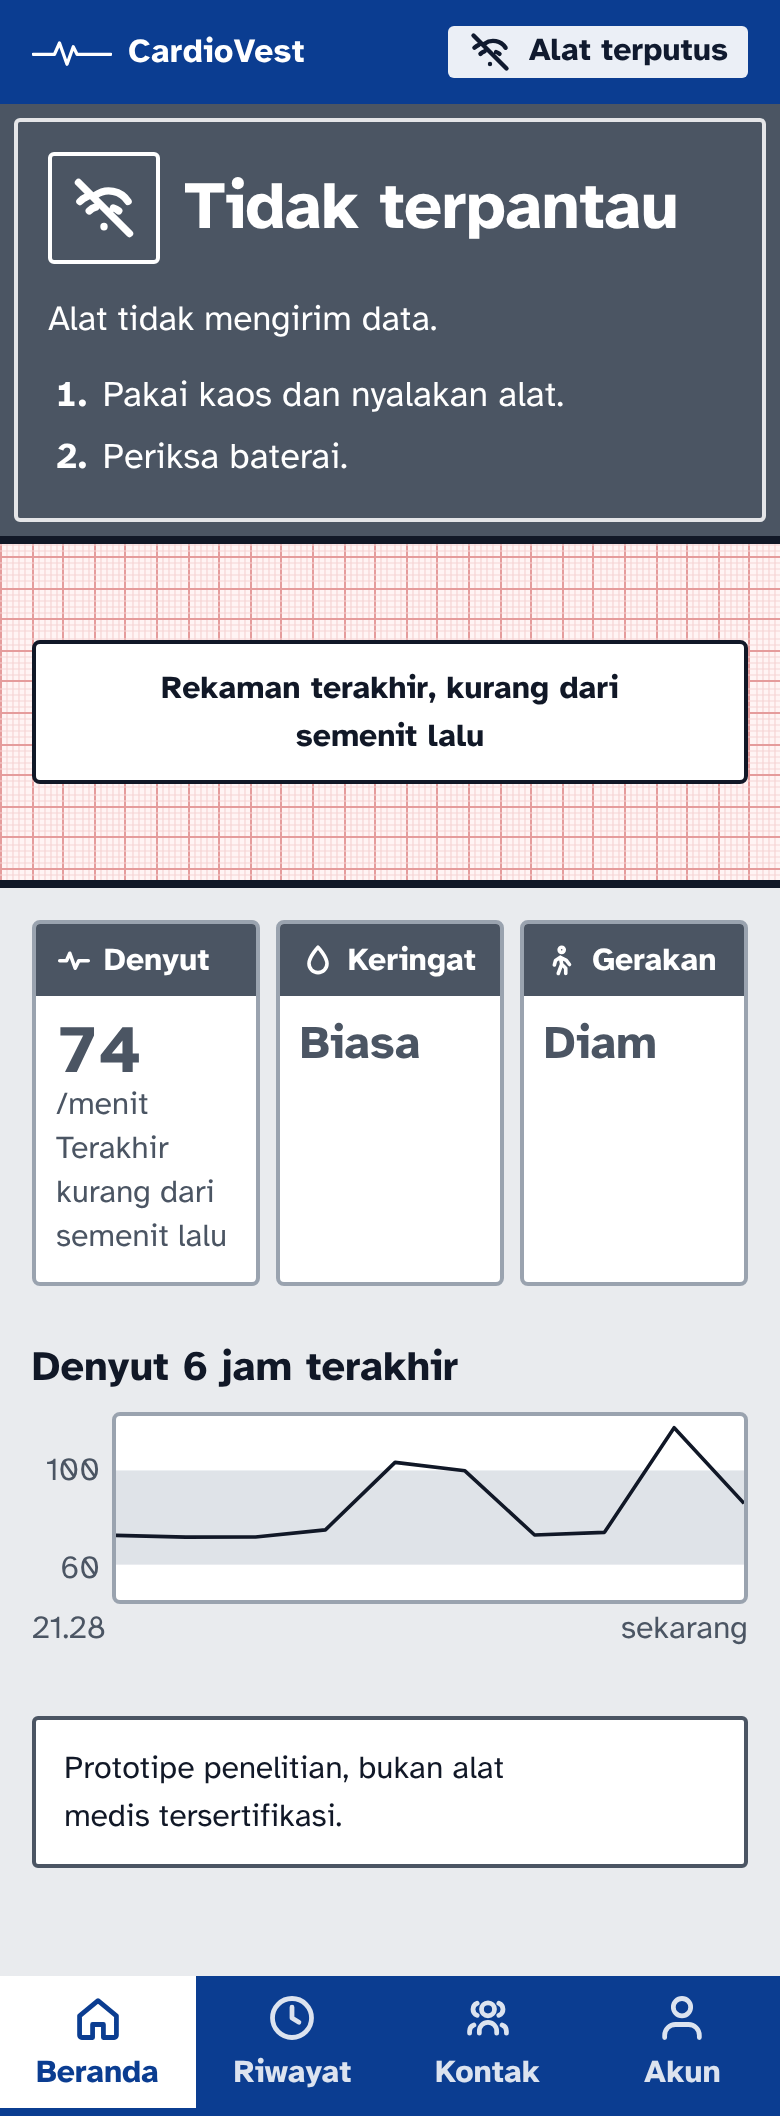
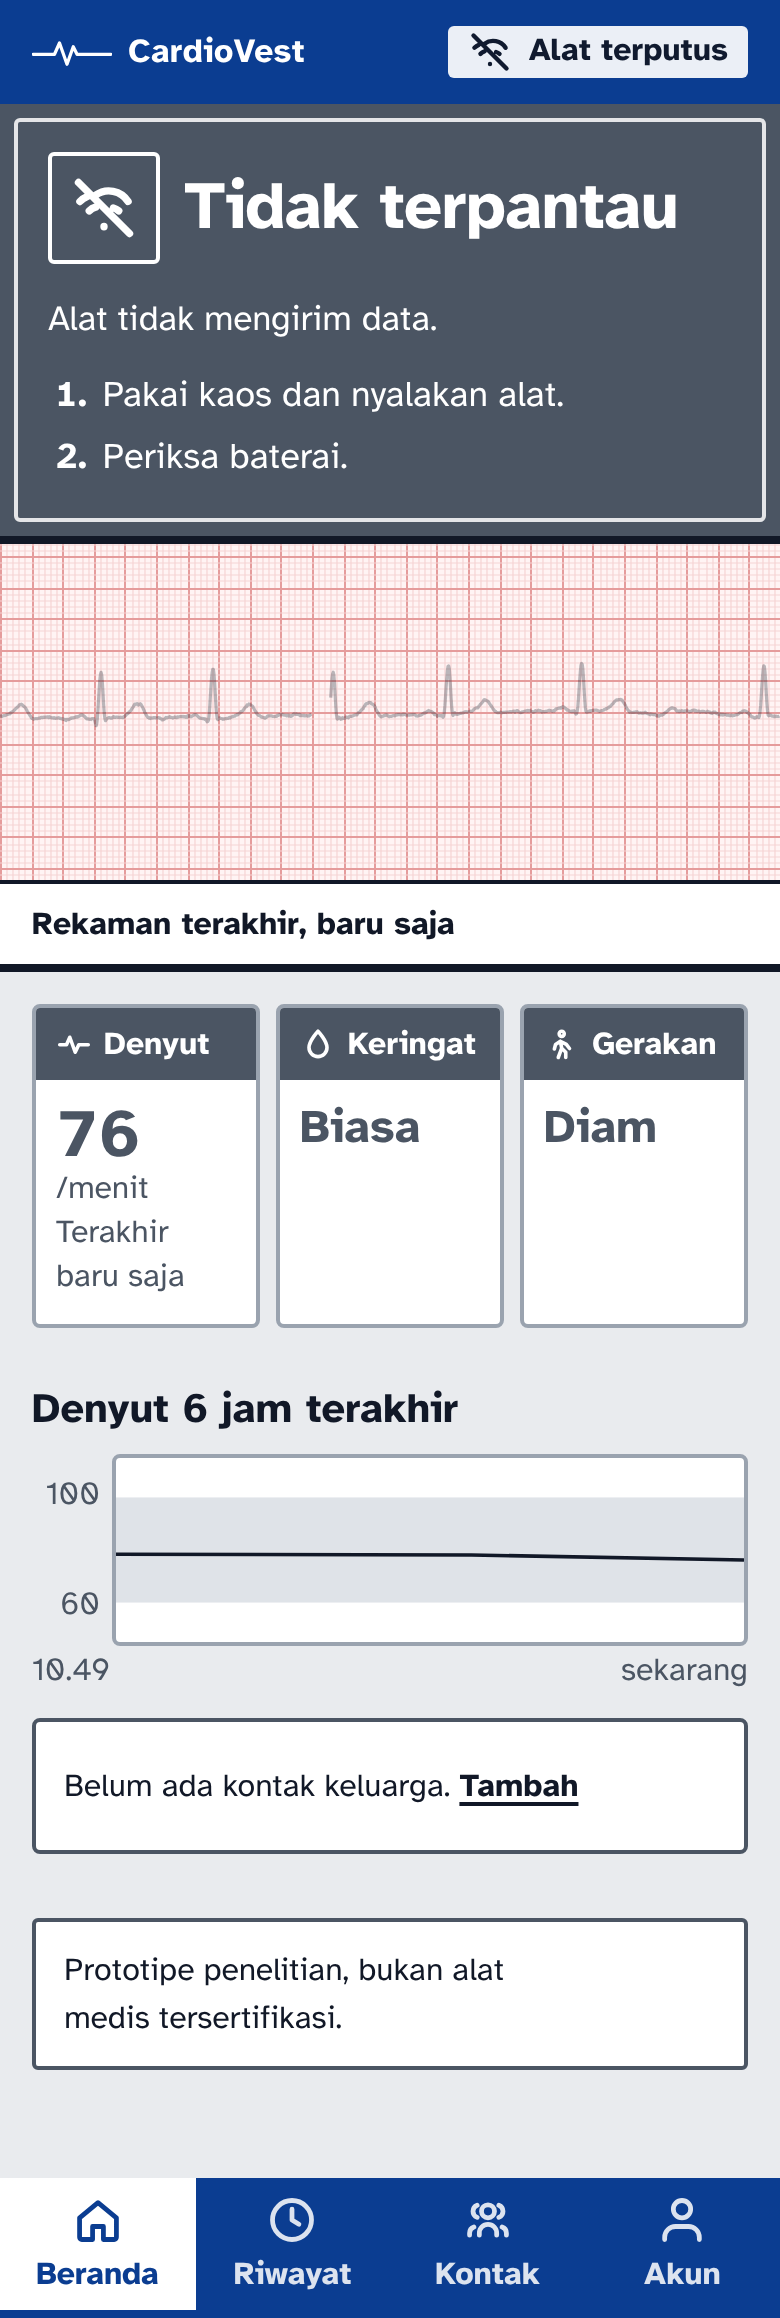
Sinyal EKG ditampilkan apa adanya di web
- Paket EKG bertanda elektroda lepas tidak lagi dibuang; semua sampel dari alat digambar.
- Grafik EKG tidak diredupkan saat elektroda lepas, hanya saat alat terputus.
- Keterangan "Elektroda lepas" dan "Sinyal kurang bersih" dipindah ke bawah grafik supaya tidak
  menutupi sinyal.
- Label denyut memakai penilaian dari cloud; batas 40/120 bpm di layar dihapus.
- Grafik denyut 6 jam memakai satu bacaan asli per menit, bukan rata-rata. Menit tanpa data
  membuat garis terputus, tidak disambung.

diff --git a/web/src/screens/Dashboard.jsx b/web/src/screens/Dashboard.jsx
@@ -11,8 +11,6 @@ import { LiveEcg } from '../components/EcgStrip.jsx';
 import Icon from '../components/icons.jsx';
 import { AckList, CallButtons, Connection, StateBanner, StickyCall, Wordmark, displayState, since } from '../components/ui.jsx';
 
-const HR_HIGH = 120; // sama dengan HR_HIGH / HR_LOW di layanan cloud (Tabel 4.3)
-const HR_LOW = 40;
 const REST_LO = 60; // pita "wajar saat istirahat" di grafik tren
 const REST_HI = 100;
 
@@ -24,24 +22,31 @@ function HrTrend({ nowHr }) {
     const t = setInterval(load, 30_000);
     return () => clearInterval(t);
   }, []);
-  const hr = (pts || []).filter((p) => p.hr != null);
-  if (hr.length < 5) return null;
+  const hr = [...(pts || [])];
+  if (hr.filter((p) => p.hr != null).length < 2) return null;
   if (nowHr) hr.push({ t: Date.now(), hr: nowHr }); // ujung grafik = angka di atas, bukan data 30 detik lalu
   const W = 320;
   const H = 96;
   const t0 = hr[0].t;
   const t1 = hr.at(-1).t;
-  const lo = Math.min(50, ...hr.map((p) => p.hr)) - 5;
-  const hi = Math.max(110, ...hr.map((p) => p.hr)) + 5;
+  const vals = hr.filter((p) => p.hr != null).map((p) => p.hr);
+  const lo = Math.min(50, ...vals) - 5;
+  const hi = Math.max(110, ...vals) + 5;
   const x = (t) => ((t - t0) / Math.max(1, t1 - t0)) * W;
   const y = (v) => H - ((v - lo) / (hi - lo)) * H;
   let d = '';
-  hr.forEach((p, i) => {
-    const gap = i && p.t - hr[i - 1].t > 5 * 60_000; // alat mati > 5 menit: putus garis
-    d += `${!i || gap ? 'M' : 'L'}${x(p.t).toFixed(1)},${y(p.hr).toFixed(1)}`;
-  });
-  const max = Math.max(...hr.map((p) => p.hr));
-  const min = Math.min(...hr.map((p) => p.hr));
+  let prev = null;
+  for (const p of hr) {
+    if (p.hr == null) { // menit tanpa angka denyut: garis diputus, tidak disambung
+      prev = null;
+      continue;
+    }
+    const gap = !prev || p.t - prev.t > 5 * 60_000; // alat mati > 5 menit: putus garis
+    d += `${gap ? 'M' : 'L'}${x(p.t).toFixed(1)},${y(p.hr).toFixed(1)}`;
+    prev = p;
+  }
+  const max = Math.max(...vals);
+  const min = Math.min(...vals);
   return (
     <section className="block">
       <h2>Denyut 6 jam terakhir</h2>
@@ -149,10 +154,9 @@ function MuteButton({ muted, state, linked }) {
   );
 }
 
+// Penilaian denyut berasal dari cloud (validator HR); layar hanya menuliskannya.
 function hrRead(hr, flagged) {
-  if (hr == null) return { word: null, abn: false };
-  if (hr > HR_HIGH) return { word: 'Tinggi', abn: true };
-  if (hr < HR_LOW) return { word: 'Rendah', abn: true };
+  if (hr == null || flagged == null) return { word: null, abn: false };
   return flagged ? { word: 'Tidak biasa', abn: true } : { word: 'Wajar', abn: false };
 }
 
@@ -255,10 +259,9 @@ export default function Dashboard() {
       )}
 
       <LiveEcg
-        leadOff={live.leadOff}
         stale={!linked}
         overlay={
-          live.leadOff ? 'Elektroda lepas. Rapatkan kaos ke dada.'
+          live.leadOff ? 'Elektroda lepas atau longgar. Rapatkan kaos ke dada.'
             : !linked ? `Rekaman terakhir, ${v?.ts ? since(v.ts) : 'sebelum alat terputus'}`
               : live.signal?.ok === false ? 'Sinyal kurang bersih. Kurangi gerakan.'
                 : null
@@ -269,7 +272,7 @@ export default function Dashboard() {
         <div className={`vital ${fresh && hr.abn ? 'abn' : ''}`}>
           <span className="vital-label"><Icon name="pulse" size={18} stroke={2.4} />Denyut</span>
           <span className="vital-value">{v?.hr ? Math.round(v.hr) : '–'}<small>/menit</small></span>
-          <span className="vital-note">{!fresh ? staleNote : hr.word ?? 'Menunggu data'}</span>
+          <span className="vital-note">{!fresh ? staleNote : hr.word ?? (v?.hr ? '\u00a0' : 'Menunggu data')}</span>
         </div>
         <div className={`vital ${fresh && val?.ind_gsr ? 'abn' : ''}`}>
           <span className="vital-label"><Icon name="drop" size={18} stroke={2.4} />Keringat</span>

diff --git a/web/src/components/EcgStrip.jsx b/web/src/components/EcgStrip.jsx
@@ -46,17 +46,15 @@ function setupCanvas(canvas, cssW, cssH) {
   return ctx;
 }
 
-export function LiveEcg({ fs = 250, height = 168, leadOff = false, paused = false, stale = false, overlay = null }) {
+export function LiveEcg({ fs = 250, height = 168, paused = false, stale = false, overlay = null }) {
   const wrap = useRef(null);
   const canvas = useRef(null);
   const queue = useRef([]);
-  const leadOffRef = useRef(leadOff);
-  leadOffRef.current = leadOff;
   const staleRef = useRef(stale);
   staleRef.current = stale;
 
+  // Semua sampel dari alat digambar apa adanya, termasuk saat elektroda lemah atau lepas.
   useEffect(() => onEcg((p) => {
-    if (p.lead_off) return; // nol dari firmware selama elektroda lepas: jangan digambar sebagai garis datar
     queue.current.push(...p.mv);
     if (queue.current.length > fs * 12) queue.current.splice(0, queue.current.length - fs * 4); // tertinggal jauh: lompat
   }), [fs]);
@@ -102,7 +100,7 @@ export function LiveEcg({ fs = 250, height = 168, leadOff = false, paused = fals
       const dx = w / n;
       const gap = Math.round(fs * 0.12);
       ctx.strokeStyle = INK;
-      ctx.globalAlpha = staleRef.current || leadOffRef.current ? 0.3 : 1; // data lama / elektroda lepas: redup
+      ctx.globalAlpha = staleRef.current ? 0.3 : 1; // alat terputus: rekaman terakhir dibuat redup
       ctx.lineWidth = 1.6;
       ctx.lineJoin = 'round';
       ctx.beginPath();
@@ -130,7 +128,7 @@ export function LiveEcg({ fs = 250, height = 168, leadOff = false, paused = fals
     };
   }, [fs, height, paused]);
 
-  // pesan (elektroda lepas, data lama) ditulis di DOM supaya terbaca pembaca layar, bukan di kanvas
+  // pesan (elektroda lepas, data lama) ditulis di bawah grafik, tidak menutupi sinyal
   return (
     <div className="ecg-live">
       <div ref={wrap} className="ecg-paper" role="img" aria-label={stale ? 'EKG terakhir sebelum alat terputus' : 'EKG langsung dari alat'}>

diff --git a/web/src/styles.css b/web/src/styles.css
@@ -305,9 +305,8 @@ label.consent input { width: 24px; height: 24px; margin: 2px 0 0; }
 .ecg-scroll::-webkit-scrollbar-track { background: var(--paper); }
 .ecg-scroll::-webkit-scrollbar-thumb { background: var(--grid-major); border-radius: 4px; }
 .ecg-overlay {
-  position: absolute; left: 50%; top: 50%; transform: translate(-50%, -50%); width: calc(100% - 2 * var(--pad)); margin: 0;
-  background: var(--surface); border: 2px solid var(--ink); border-radius: var(--r);
-  padding: 10px 14px; text-align: center; font-weight: 700; font-size: 1rem; color: var(--ink);
+  margin: 0; padding: 8px var(--pad); border-top: 2px solid var(--ink);
+  background: var(--surface); font-weight: 700; font-size: 1rem; color: var(--ink);
 }
 
 /* ---------- pelat tanda vital: kepala biru + isi putih */

diff --git a/web/lib/server/db.js b/web/lib/server/db.js
@@ -69,8 +69,10 @@ export const lastFix = (dev, from, to) =>
        ORDER BY ts DESC LIMIT 1`, dev, from, to);
 
 /** Rata-rata per menit untuk grafik tren. */
+// Satu bacaan asli per menit (yang terakhir di menit itu), tanpa dirata-rata. SQLite mengambil kolom
+// hr/gsr dari baris yang sama dengan MAX(ts).
 export const trend = (dev, fromTs) =>
-  all(`SELECT (ts/60000)*60000 AS t, ROUND(AVG(hr),1) AS hr, ROUND(AVG(gsr),2) AS gsr, MAX(fall_detected) AS fall
+  all(`SELECT MAX(ts) AS t, hr, gsr, fall_detected AS fall
        FROM vitals WHERE device_id=? AND ts>=? GROUP BY ts/60000 ORDER BY t`, dev, fromTs);
 
 /** Potongan ECG (mV) dari paket tersimpan; celah antar-paket diisi null supaya garis terputus jujur. */
